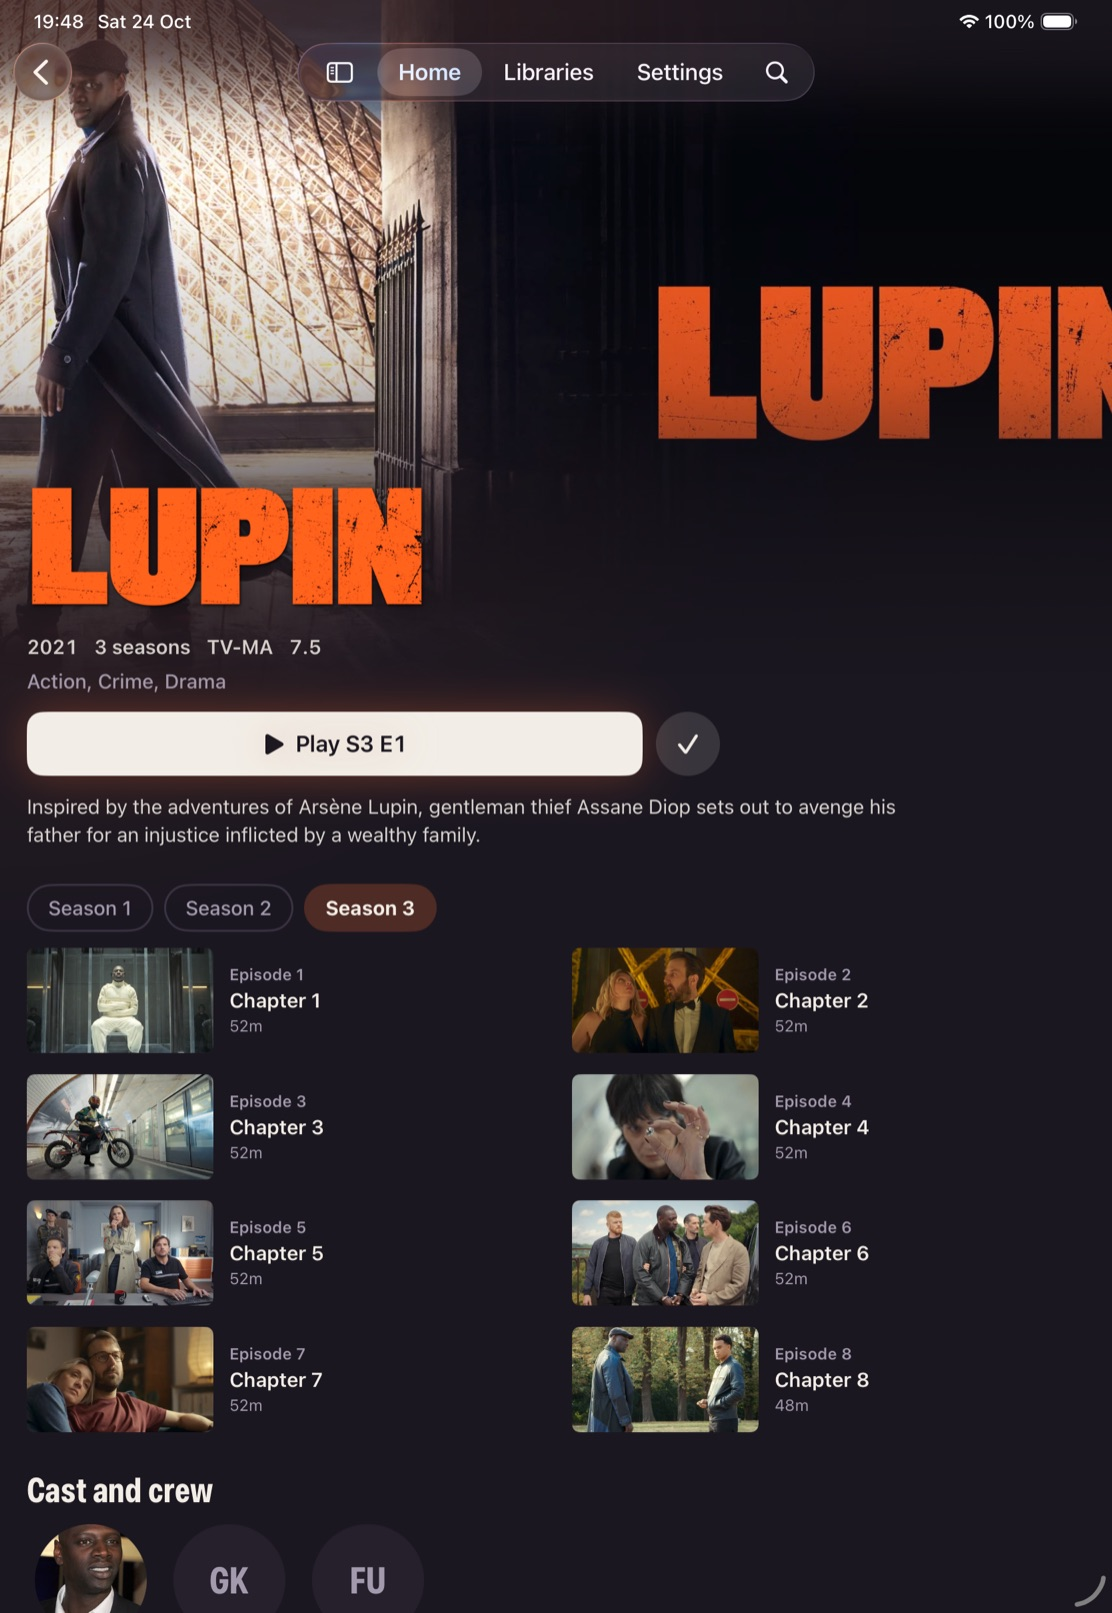
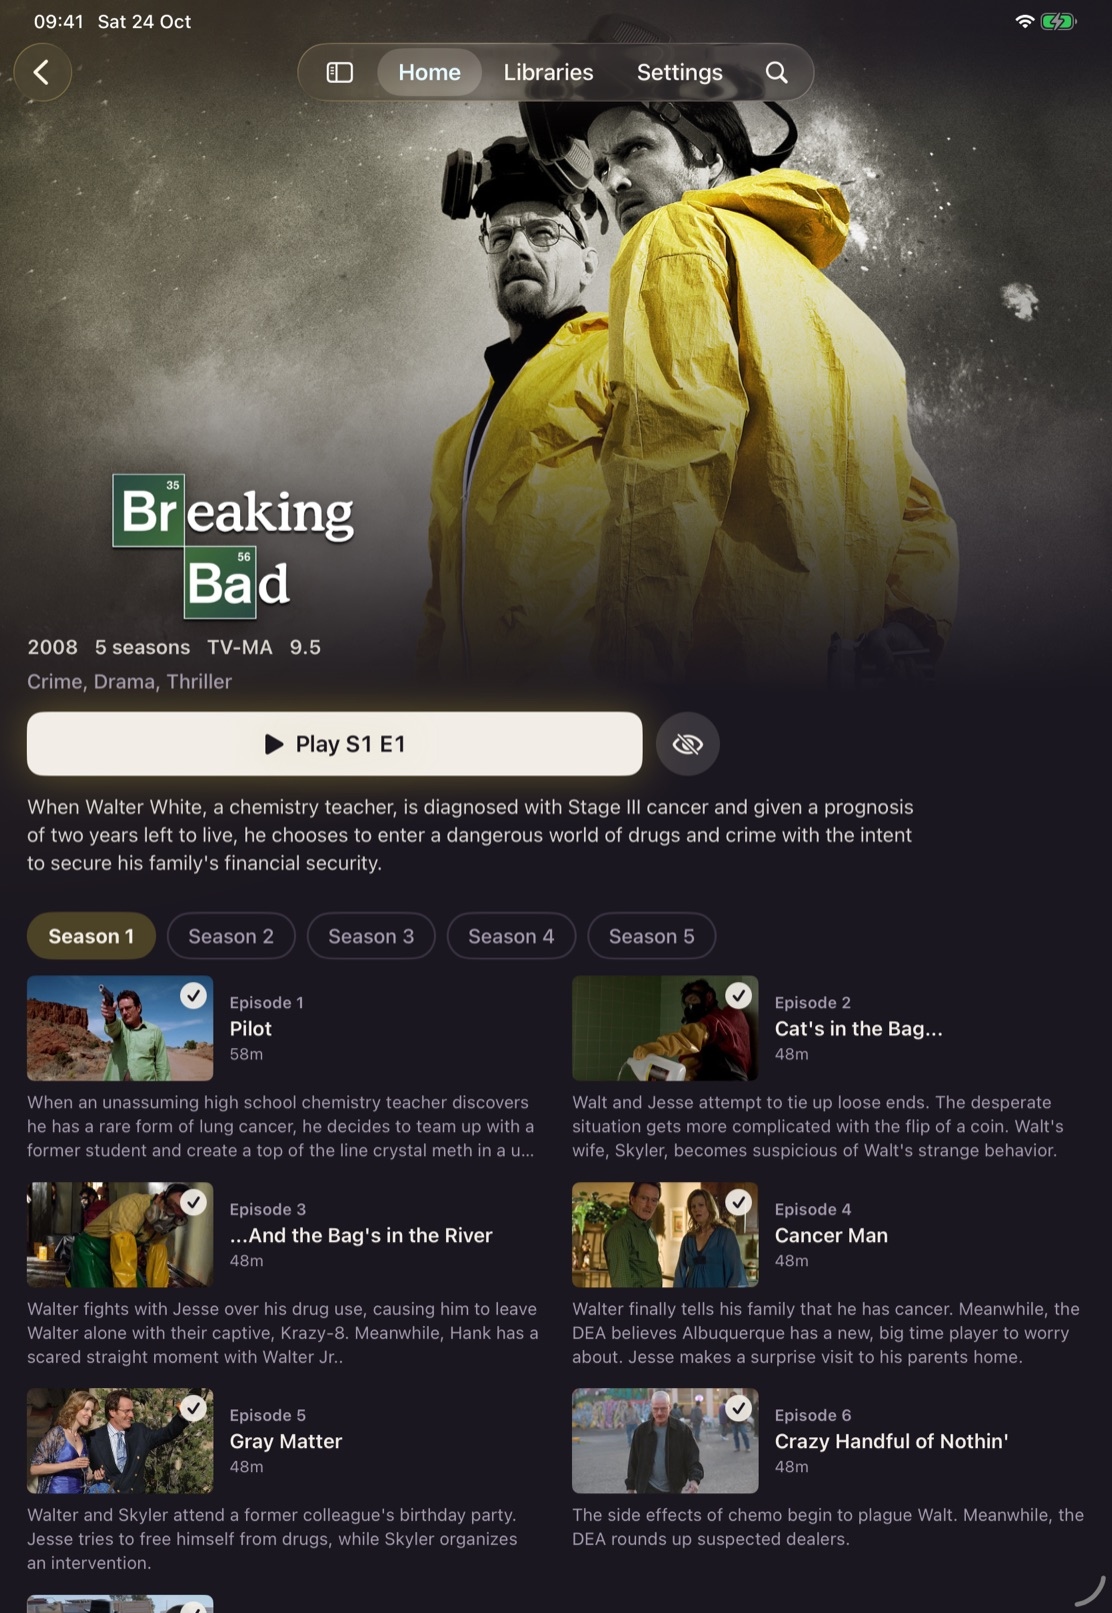
docs(site): Breaking Bad on the iPad in the hero
Its artwork reads far better than Lupin's at that size. The iOS UI tests gain test7Item, which opens one title
(TEST_RUNNER_FLEXARR_ITEM) for a screenshot.

Claude-Session: https://claude.ai/code/session_01GXEcqHweYmm9EDwnBYpi7o

diff --git a/clients/apple/FlexarriOSUITests/ScreenshotTour.swift b/clients/apple/FlexarriOSUITests/ScreenshotTour.swift
@@ -158,6 +158,17 @@ final class ScreenshotTour: XCTestCase {
         throw XCTSkip("Nothing in Home plays with subtitles on")
     }
 
+    /// One title's page, for the website: TEST_RUNNER_FLEXARR_ITEM=<id>.
+    func test7Item() async throws {
+        guard let id = ProcessInfo.processInfo.environment["FLEXARR_ITEM"] else { throw XCTSkip("Set TEST_RUNNER_FLEXARR_ITEM") }
+        app.open(URL(string: "flexarr://item/\(id)")!)
+        // iOS asks before following a link from outside the app.
+        let open = XCUIApplication(bundleIdentifier: "com.apple.springboard").buttons["Open"]
+        if open.waitForExistence(timeout: 3) { open.tap() }
+        pause(8)
+        shot("item")
+    }
+
     // MARK: Helpers
 
     /// Tabs are found by their label: in the tab bar on iPhone, the bar along the top on iPad.

diff --git a/site/index.html b/site/index.html
@@ -192,7 +192,7 @@
       </div>
       <p class="facts"><span>GPL-3.0</span><span>Docker or native on macOS</span><span>Hardware transcoding</span><span>No account needed</span></p>
 
-      <div class="stage" role="img" aria-label="Flexarr on a Mac, an iPad and an iPhone: the web app's home page, a show's page with its seasons and episodes, and a film library as a poster grid.">
+      <div class="stage" role="img" aria-label="Flexarr on a Mac, an iPad and an iPhone: the web app's home page, Breaking Bad's page with its seasons and episodes, and a film library as a poster grid.">
         <div class="mac">
           <div class="bezel"><img src="/shots/web-home.jpg" width="1920" height="1200" alt=""></div>
           <div class="mac-base"></div>
